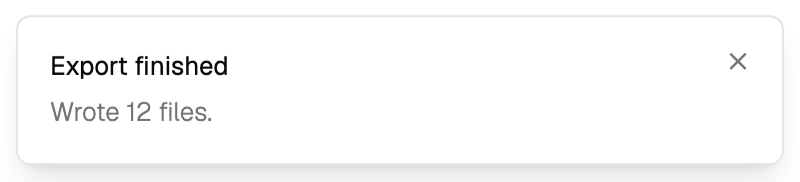
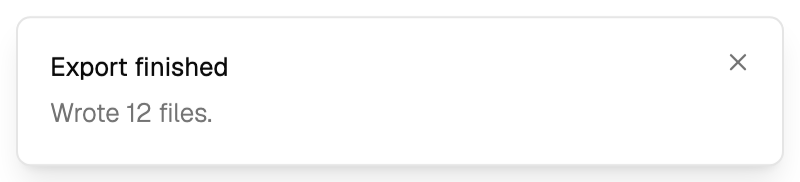
Draw one kind of tab, dragging or not
A GUI tab group in the docked control panel and the same group in a
sidebar had drifted into two different-looking things: a filled pill
strip that scrolled its overflow away under a hidden scrollbar, against
an underlined strip that wrapped. Which one an author got was decided by
`control_layout` -- a setting about the panel's chrome, with no visible
connection to a tab group at all -- and only one of the two was ever
captured in the docs.

Both now draw the same strip. It wraps, for the reason the option rows
wrap: a tab whose words stop at an edge, with nothing to say there is
more of it, is a tab nobody can read. It carries the same `data-leika-tab`
hooks either way, so a test or a screenshot no longer depends on which
layout it happened to run under.

What a dock adds is the dragging, and only the dragging: its tabs can be
torn out into windows of their own, dropped into another panel, or
reordered. That cannot simply be switched on where there is no dock,
because a tab that can be torn out has to BE a dock panel -- the dock is
what holds it once it is out and draws it wherever it lands. So the two
forms differ in who owns the bodies, and the strip is told only whether
it may be dragged.

Sidebar, mobile and fixed layouts therefore change appearance: underlined
rather than filled, and wrapping rather than scrolling. They are what the
default layout has looked like all along.

Changed region(s): [[0.0625, 0.5495, 0.2812, 0.6868], [0.0625, 0.3022, 0.2812, 0.4396], [0.9062, 0.3022, 0.9375, 0.3846]]

diff --git a/src/leika/client/src/components/TabGroup.tsx b/src/leika/client/src/components/TabGroup.tsx
@@ -1,23 +1,46 @@
 import * as React from "react";
 
-import { Tabs, TabsContent, TabsList, TabsTrigger } from "@/components/ui/tabs";
+import { Tabs, TabsContent } from "@/components/ui/tabs";
 import { GuiComponentContext } from "../ControlPanel/GuiComponentContext";
 import { GuiDockContext } from "../ControlPanel/GuiDockContext";
 import { GuiTabGroupMessage } from "../WebsocketMessages";
 import { IconHtml } from "./common";
+import { TabStrip } from "./TabStrip";
 import { DockArea } from "../dock/DockArea";
 import { DockContext, useDock } from "../dock/DockContext";
 import * as layoutOps from "../dock/layoutOps";
 
+/**
+ * A tab group, with or without the dragging.
+ *
+ * One kind of tab either way: both forms draw the same `TabStrip` and the same
+ * bodies under it, and what a dock adds is that its tabs can be torn out into
+ * windows of their own, dropped into another panel, or reordered. It used to
+ * add a different-looking strip as well -- a filled pill strip that scrolled
+ * its overflow away silently, against an underlined one that wrapped -- and
+ * which an author got was decided by the panel's chrome setting, which has no
+ * visible connection to a tab group at all.
+ *
+ * Dragging cannot simply be switched on here, because a tab that can be torn
+ * out has to BE a dock panel: the dock is what holds it once it is out, and
+ * what draws it wherever it lands. So the draggable form hands its tabs over
+ * to the dock as panels and lets the dock place them, and the fixed form keeps
+ * them and draws them itself. The fork is which of those two owns the bodies;
+ * it is not a fork in what a tab group looks like.
+ */
 export default function TabGroupComponent(message: GuiTabGroupMessage) {
   const dock = React.useContext(DockContext);
   const guiDock = React.useContext(GuiDockContext);
+  // Both, or neither: the panel registry and the dock that renders it are two
+  // halves of the same surface.
   if (dock !== null && guiDock !== null)
-    return <DockableTabGroup {...message} />;
-  return <PlainTabGroup {...message} />;
+    return <DraggableTabGroup {...message} />;
+  return <FixedTabGroup {...message} />;
 }
 
-function DockableTabGroup({
+/** Tabs the viewer can pull apart: each becomes a panel of the dock's, and the
+ * group becomes an area for the dock to place them in. */
+function DraggableTabGroup({
   uuid,
   props: { _tabs: tabs },
 }: GuiTabGroupMessage) {
@@ -42,7 +65,8 @@ function DockableTabGroup({
   return <DockArea areaId={areaId} minHeight="2.4em" inheritContentPadding />;
 }
 
-function PlainTabGroup({ props: { _tabs: tabs } }: GuiTabGroupMessage) {
+/** Tabs that stay where they are, drawn here rather than by a dock. */
+function FixedTabGroup({ props: { _tabs: tabs } }: GuiTabGroupMessage) {
   const { GuiContainer } = React.useContext(GuiComponentContext)!;
   // Derived rather than corrected in an effect: when the server drops the
   // selected tab, the first tab takes over on the same render.
@@ -55,22 +79,16 @@ function PlainTabGroup({ props: { _tabs: tabs } }: GuiTabGroupMessage) {
   if (activeTab === null) return null;
   return (
     <Tabs value={activeTab} onValueChange={(next) => setSelected(String(next))}>
-      <TabsList
-        className="no-scrollbar w-full min-w-0 justify-start overflow-x-auto"
-        data-leika-tabs-list
-      >
-        {tabs.map((tab) => (
-          <TabsTrigger
-            data-leika-tab
-            className="min-w-fit"
-            value={tab.container_id}
-            key={tab.container_id}
-          >
-            {tab.icon_html === null ? null : <IconHtml html={tab.icon_html} />}
-            {tab.label}
-          </TabsTrigger>
-        ))}
-      </TabsList>
+      <TabStrip
+        tabs={tabs.map((tab) => ({
+          id: tab.container_id,
+          label: tab.label,
+          icon:
+            tab.icon_html === null ? undefined : (
+              <IconHtml html={tab.icon_html} />
+            ),
+        }))}
+      />
       {tabs.map((tab) => (
         <TabsContent
           value={tab.container_id}

diff --git a/src/leika/client/src/components/TabStrip.tsx b/src/leika/client/src/components/TabStrip.tsx
@@ -1,0 +1,108 @@
+import * as React from "react";
+
+import { TabsList, TabsTrigger } from "@/components/ui/tabs";
+
+/** One tab, however it is being drawn: a GUI tab group's own tab, or a panel
+ * the dock is holding in a group. */
+export type TabStripItem = {
+  id: string;
+  label: string;
+  /** Already-rendered icon markup or node, drawn before the label. */
+  icon?: React.ReactNode;
+};
+
+/** What a strip needs to be dragged, when there is a dock to drag it into.
+ *
+ * Its presence is the whole difference between the two kinds of tab group: a
+ * strip given this can be torn apart and rearranged, and one without it is the
+ * same strip that cannot. Nothing about how a tab LOOKS is decided here. */
+export type TabStripDrag = {
+  /** The dock group the strip stands for, for the dock's own hit-testing. */
+  groupId: string;
+  /** The tab currently under a drag, which is raised above its neighbours. */
+  draggingId: string | null;
+  /** A press on the strip itself, away from any tab. */
+  onStripPointerDown: (event: React.PointerEvent<HTMLElement>) => void;
+  /** A press on one tab: a click activates it, a drag tears it out. */
+  onTabPointerDown: (
+    event: React.PointerEvent<HTMLElement>,
+    id: string,
+  ) => void;
+  /** The strip element, which the dock measures to glide tabs into place. */
+  stripRef: React.Ref<HTMLDivElement>;
+};
+
+/**
+ * The row of tabs above a tab group, wherever the group is being drawn.
+ *
+ * There is one of these because there is one kind of tab: a GUI tab group in
+ * the docked control panel and the same group in a sidebar were two components
+ * that had drifted into two different-looking things -- one a filled pill strip
+ * that scrolled its overflow away silently, the other an underlined strip that
+ * wrapped -- and which one an author got was decided by a panel-chrome setting
+ * with no visible connection to it.
+ *
+ * The strip wraps rather than scrolling: a tab whose words are cut off at an
+ * edge, with no scrollbar to say there is more, is a tab nobody can read. It is
+ * as tall as the tabs it holds, marked important because the stock list sets a
+ * one-line height from the tabs root above it.
+ */
+export function TabStrip({
+  tabs,
+  drag,
+}: {
+  tabs: TabStripItem[];
+  /** Left out, the tabs are fixed in place; given, they can be dragged. */
+  drag?: TabStripDrag;
+}) {
+  return (
+    <TabsList
+      ref={drag?.stripRef}
+      variant="line"
+      className="h-auto! w-full min-w-0 flex-wrap justify-start"
+      data-leika-tabs-list
+      data-dock-strip={drag?.groupId}
+      onPointerDown={
+        drag === undefined
+          ? undefined
+          : (event) => {
+              // A press that landed on a tab is that tab's to handle.
+              if ((event.target as HTMLElement).closest("[data-dock-tab]")) {
+                return;
+              }
+              drag.onStripPointerDown(event);
+            }
+      }
+    >
+      {tabs.map((tab) => {
+        const dragging = drag?.draggingId === tab.id;
+        return (
+          <TabsTrigger
+            key={tab.id}
+            value={tab.id}
+            title={tab.label}
+            className="max-w-56 min-w-fit"
+            data-leika-tab
+            data-dock-tab={drag === undefined ? undefined : tab.id}
+            onPointerDown={
+              drag === undefined
+                ? undefined
+                : (event) => drag.onTabPointerDown(event, tab.id)
+            }
+            style={
+              dragging
+                ? { position: "relative", zIndex: 5, opacity: 1 }
+                : undefined
+            }
+          >
+            {tab.icon}
+            {/* A tab is not worth widening the strip for: past `max-w-56` the
+                label gives way. `TabsTrigger` is a flex box, so the ellipsis
+                has to be asked for on a box inside it. */}
+            <span className="truncate">{tab.label}</span>
+          </TabsTrigger>
+        );
+      })}
+    </TabsList>
+  );
+}

diff --git a/src/leika/client/src/dock/TabGroupFrame.tsx b/src/leika/client/src/dock/TabGroupFrame.tsx
@@ -7,12 +7,8 @@ import React from "react";
 import { CardContent, CardHeader, CardTitle } from "../components/ui/card";
 import { Collapsible, CollapsibleContent } from "../components/ui/collapsible";
 import { ScrollArea } from "../components/ui/scroll-area";
-import {
-  Tabs,
-  TabsContent,
-  TabsList,
-  TabsTrigger,
-} from "../components/ui/tabs";
+import { TabStrip } from "../components/TabStrip";
+import { Tabs, TabsContent } from "../components/ui/tabs";
 import { cn } from "../lib/utils";
 import { prefersReducedMotion } from "../utils/motion";
 import {
@@ -332,51 +328,31 @@ export function TabGroupFrame({
           }
         />
       )}
-      <TabsList
-        ref={stripRef}
-        variant="line"
-        data-dock-strip={group.id}
-        // A strip of panel tabs wraps, so its height is whatever its tabs need
-        // -- and `h-auto` has to be marked important to say so. The stock list
-        // sets a one-line height from the tabs root above it, which outranks a
-        // plain class here: the strip stayed 32px tall while holding two lines
-        // of tabs, and since it does not clip, the second line was painted over
-        // whatever the panel had below it.
-        className="h-auto! w-full flex-wrap justify-start"
-        onPointerDown={(event) => {
-          if ((event.target as HTMLElement).closest("[data-dock-tab]")) {
-            return;
-          }
-          if (stripDragsGroup) dock.startGroupDrag(event, group.id);
-        }}
-      >
-        {group.panelIds.map((panelId) => {
-          const dragging = panelId === dock.draggingTabId;
+      {/* The same strip a GUI tab group draws for itself when there is no dock
+          to drag it into. What the dock adds is the dragging, not the look. */}
+      <TabStrip
+        tabs={group.panelIds.map((panelId) => {
           const panel = panels[panelId];
-          return (
-            <TabsTrigger
-              key={panelId}
-              value={panelId}
-              data-dock-tab={panelId}
-              title={panel?.title ?? panelId}
-              className="max-w-56"
-              onPointerDown={(event) =>
-                dock.startTabDrag(event, group.id, panelId)
-              }
-              style={{
-                position: dragging ? "relative" : undefined,
-                zIndex: dragging ? 5 : undefined,
-                opacity: dragging ? 1 : undefined,
-              }}
-            >
-              {panel?.icon !== undefined && (
+          return {
+            id: panelId,
+            label: panel?.title ?? panelId,
+            icon:
+              panel?.icon === undefined ? undefined : (
                 <span data-icon="inline-start">{panel.icon}</span>
-              )}
-              <span className="truncate">{panel?.title ?? panelId}</span>
-            </TabsTrigger>
-          );
+              ),
+          };
         })}
-      </TabsList>
+        drag={{
+          groupId: group.id,
+          draggingId: dock.draggingTabId,
+          stripRef,
+          onStripPointerDown: (event) => {
+            if (stripDragsGroup) dock.startGroupDrag(event, group.id);
+          },
+          onTabPointerDown: (event, panelId) =>
+            dock.startTabDrag(event, group.id, panelId),
+        }}
+      />
       {group.panelIds.map((panelId) => {
         const panelBody = renderPanelBody(panelId);
         return (

diff --git a/src/leika/client/src/components/TabGroup.test.ts b/src/leika/client/src/components/TabGroup.test.ts
@@ -40,15 +40,23 @@ function renderTabs(): string {
   );
 }
 
-describe("PlainTabGroup", () => {
-  it("keeps the stock fixed-height TabsList on one row", () => {
+describe("FixedTabGroup", () => {
+  it("draws the same strip the dock draws, without the dragging", () => {
+    // One kind of tab. What the dock adds to a group is that its tabs can be
+    // torn out and rearranged, not a different-looking strip -- so a group
+    // with no dock to drag into carries every hook but the drag ones.
     const markup = renderTabs();
     expect(markup).toContain("data-leika-tabs-list");
     expect(markup.match(/data-leika-tab(?:=|\s|>)/g)).toHaveLength(2);
-    expect(markup).toContain("no-scrollbar");
-    expect(markup).toContain("overflow-x-auto");
-    expect(markup).toContain("min-w-fit");
-    expect(markup).not.toContain("flex-wrap");
+    expect(markup).toContain('data-variant="line"');
+    // It wraps rather than scrolling: a tab cut off at an edge with no
+    // scrollbar to admit it is one nobody can read.
+    expect(markup).toContain("flex-wrap");
+    expect(markup).not.toContain("overflow-x-auto");
+    expect(markup).not.toContain("no-scrollbar");
+    // Nothing here is draggable, so none of the dock's hooks are on it.
+    expect(markup).not.toContain("data-dock-tab");
+    expect(markup).not.toContain("data-dock-strip");
   });
 
   it("keeps inactive panel contents mounted for renderer and draft continuity", () => {

diff --git a/tests/e2e/test_responsive_panel.py b/tests/e2e/test_responsive_panel.py
@@ -129,7 +129,7 @@ def test_dockable_tabs_keep_inactive_panel_dom_mounted(
     assert page_errors == []
 
 
-def test_narrow_plain_tabs_scroll_and_button_groups_wrap_without_page_overflow(
+def test_a_narrow_panel_wraps_its_tabs_and_its_option_rows(
     leika_server: leika.Server,
     page: Page,
     page_errors: list[str],
@@ -169,11 +169,24 @@ def test_narrow_plain_tabs_scroll_and_button_groups_wrap_without_page_overflow(
     tabs_list = page.locator("[data-leika-tabs-list]")
     expect(tabs_list).to_be_visible(timeout=5_000)
     tab_metrics = tabs_list.evaluate(
-        "element => ({clientWidth: element.clientWidth, scrollWidth: element.scrollWidth})"
+        """element => ({
+          clientWidth: element.clientWidth,
+          scrollWidth: element.scrollWidth,
+          lines: new Set(
+            [...element.querySelectorAll("[role=tab]")].map(
+              (tab) => Math.round(tab.getBoundingClientRect().top),
+            ),
+          ).size,
+        })"""
     )
-    assert tab_metrics["scrollWidth"] > tab_metrics["clientWidth"]
+    # Four labels this long cannot share one line of a 320px panel, and the
+    # strip wraps rather than scrolling: a tab cut off at an edge, with the
+    # scrollbar hidden, is one nobody can read and nothing says is there.
+    assert tab_metrics["lines"] > 1, tab_metrics
+    assert tab_metrics["scrollWidth"] <= tab_metrics["clientWidth"], tab_metrics
     last_tab = page.get_by_role("tab", name=tab_labels[-1], exact=True)
-    last_tab.scroll_into_view_if_needed()
+    # Reachable where it stands, with nothing scrolled into view first.
+    expect(last_tab).to_be_in_viewport()
     last_tab.click()
     expect(page.get_by_text("Panel content 4", exact=True)).to_be_visible()
 
@@ -181,11 +194,8 @@ def test_narrow_plain_tabs_scroll_and_button_groups_wrap_without_page_overflow(
         "[data-leika-button-group]", has=page.get_by_role("button", name="Interactive preview")
     )
     expect(group).to_be_visible()
-    # Tabs scroll; a row of options does not. A tab that is off the edge still
-    # reads as a tab, and the strip is a thing a reader expects to page
-    # through. A button cut in half by the panel's edge is just a button whose
-    # label lies, so the options wrap onto another line instead -- and nothing
-    # is left behind an edge with no scrollbar to admit it.
+    # A row of options wraps for the same reason the strip above it does:
+    # nothing is left behind an edge with no scrollbar to admit it.
     group_metrics = group.evaluate(
         """element => ({
           clientWidth: element.clientWidth,
